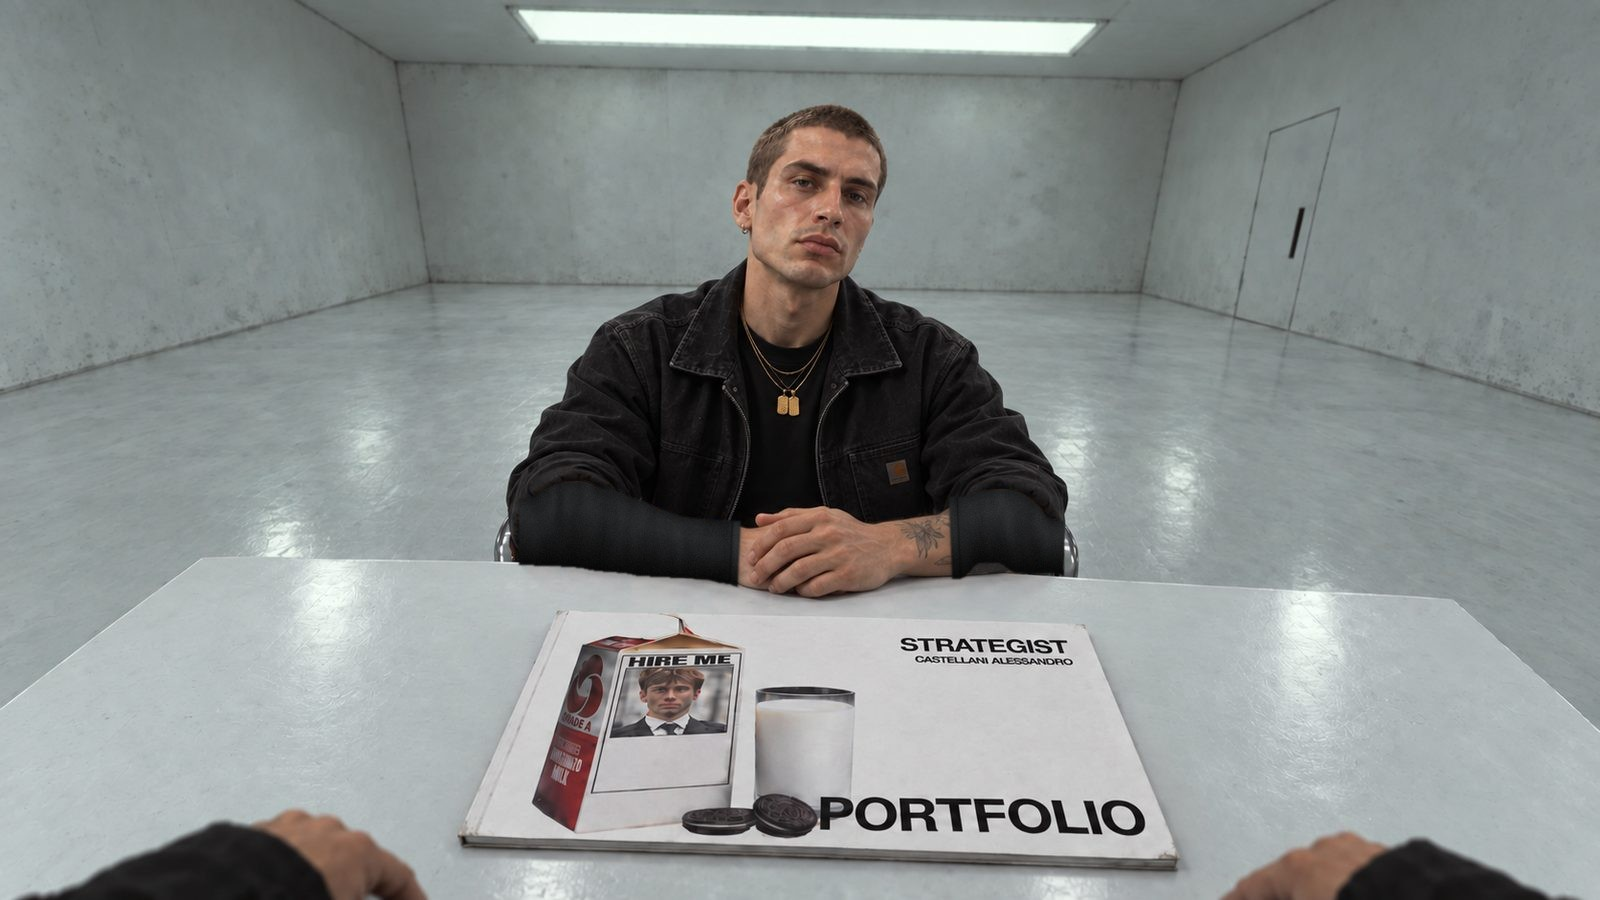
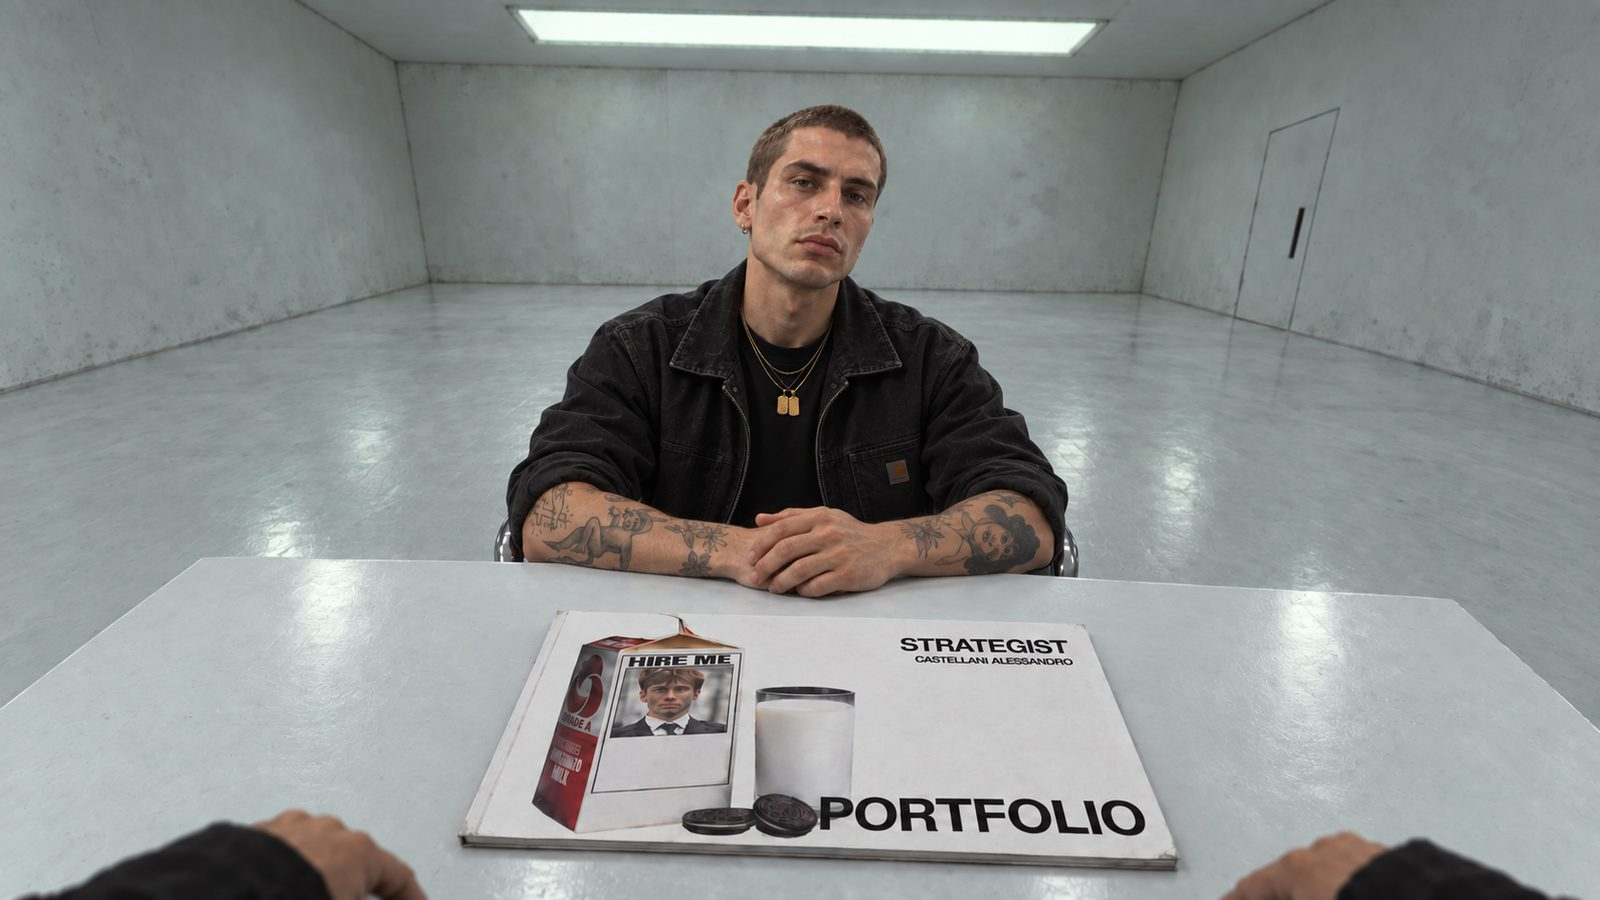
Back to the original frames; drop the broken sleeve overlay
Claude-Session: https://claude.ai/code/session_016uVSqxacXpJzEejh8DPR6u

Changed region(s): [[0.3125, 0.5289, 0.4688, 0.6533], [0.5938, 0.5289, 0.6875, 0.6533]]

diff --git a/index.html b/index.html
@@ -10,23 +10,23 @@
 <meta property="og:type" content="website">
 <meta property="og:title" content="Alessandro Castellani Portfolio">
 <meta property="og:description" content="Communication designer and strategist. Ask a question, then browse the full portfolio.">
-<meta property="og:image" content="https://011kaste.github.io/portfolio/assets/idle.jpg?v=2">
+<meta property="og:image" content="https://011kaste.github.io/portfolio/assets/idle.jpg?v=3">
 <meta property="og:image:width" content="1600">
 <meta property="og:image:height" content="900">
 <meta property="og:url" content="https://011kaste.github.io/portfolio/">
 <meta name="twitter:card" content="summary_large_image">
 <meta name="twitter:title" content="Alessandro Castellani Portfolio">
 <meta name="twitter:description" content="Communication designer and strategist. Ask a question, then browse the full portfolio.">
-<meta name="twitter:image" content="https://011kaste.github.io/portfolio/assets/idle.jpg?v=2">
+<meta name="twitter:image" content="https://011kaste.github.io/portfolio/assets/idle.jpg?v=3">
 
 <link rel="icon" href="assets/favicon.svg" type="image/svg+xml">
 <link rel="preconnect" href="https://fonts.googleapis.com">
 <link rel="preconnect" href="https://fonts.gstatic.com" crossorigin>
 <link rel="stylesheet" href="https://fonts.googleapis.com/css2?family=VT323&display=swap">
-<link rel="preload" as="image" href="assets/idle.jpg?v=2">
-<link rel="preload" as="image" href="assets/speak2.jpg?v=2">
-<link rel="preload" as="image" href="assets/speak3.jpg?v=2">
-<link rel="preload" as="image" href="assets/speak4.jpg?v=2">
+<link rel="preload" as="image" href="assets/idle.jpg?v=3">
+<link rel="preload" as="image" href="assets/speak2.jpg?v=3">
+<link rel="preload" as="image" href="assets/speak3.jpg?v=3">
+<link rel="preload" as="image" href="assets/speak4.jpg?v=3">
 
 <style>
 /* Base rules the page relies on */
@@ -63,12 +63,11 @@ button:focus-visible,a:focus-visible{outline:2px solid #fff;outline-offset:3px;b
 #sceneWrap{position:absolute;inset:0;overflow:hidden;background:var(--room)}
 .sceneLayer{position:absolute;inset:-1.5%;background-position:center;background-size:cover;background-repeat:no-repeat;opacity:0;transition:opacity .13s linear,transform .18s ease-out;will-change:opacity,transform;transform:scale(1.018)}
 .sceneLayer.visible{opacity:1}
[1 lines of base64/hex data omitted]
-#sceneIdle,#scene1{background-image:url("assets/idle.jpg?v=2")}
+#sceneIdle,#scene1{background-image:url("assets/idle.jpg?v=3")}
 #sceneIdle{opacity:1}
-#scene2{background-image:url("assets/speak2.jpg?v=2")}
-#scene3{background-image:url("assets/speak3.jpg?v=2")}
-#scene4{background-image:url("assets/speak4.jpg?v=2")}
+#scene2{background-image:url("assets/speak2.jpg?v=3")}
+#scene3{background-image:url("assets/speak3.jpg?v=3")}
+#scene4{background-image:url("assets/speak4.jpg?v=3")}
 .vignette,.grain,.overlay{position:absolute;inset:0;pointer-events:none}
 .overlay{background:linear-gradient(180deg,rgba(255,255,255,.035),rgba(0,0,0,.055));z-index:10}
 .vignette{background:radial-gradient(circle at 50% 45%,transparent 42%,rgba(0,0,0,.13) 100%);z-index:11}
@@ -223,7 +222,6 @@ a.pill{text-decoration:none;display:inline-block}
     <div class="sceneLayer" id="scene2"></div>
     <div class="sceneLayer" id="scene3"></div>
     <div class="sceneLayer" id="scene4"></div>
-    <div class="sleevesLayer" id="sleevesLayer" aria-hidden="true"></div>
   </div>
   <div class="stageWrap" id="stageWrap">
     <div class="stage" id="stage">
@@ -380,7 +378,7 @@ const reduceMotion=window.matchMedia("(prefers-reduced-motion: reduce)");
 const narrow=window.matchMedia("(max-width: 900px)");
 
 /* ---------- Talking scene ---------- */
-const layers=[...document.querySelectorAll(".sceneLayer")],idle=$("sceneIdle"),frames=[$("scene1"),$("scene2"),$("scene3"),$("scene4")],sleeves=$("sleevesLayer");
+const layers=[...document.querySelectorAll(".sceneLayer")],idle=$("sceneIdle"),frames=[$("scene1"),$("scene2"),$("scene3"),$("scene4")];
 let typing=null,speakInt=null,speakStop=null,fi=0;
 function showOnly(el){layers.forEach(l=>l.classList.remove("visible"));el.classList.add("visible")}
 function stopSpeaking(){clearInterval(speakInt);clearTimeout(speakStop);showOnly(idle)}
@@ -398,8 +396,8 @@ interview.forEach(item=>{const b=document.createElement("button");b.type="button
 talkBtn.onclick=()=>dock.classList.contains("show")?closeDock():openDock();
 $("dockClose").onclick=closeDock;
 
-exp.addEventListener("mousemove",e=>{if(reduceMotion.matches)return;const r=exp.getBoundingClientRect(),x=(e.clientX-r.width/2)/r.width,y=(e.clientY-r.height/2)/r.height;const t=`translate3d(${(x*-14).toFixed(1)}px,${(y*-9).toFixed(1)}px,0) scale(1.018)`;layers.forEach(l=>l.style.transform=t);sleeves.style.transform=t;stageWrap.style.transform=t});
-exp.addEventListener("mouseleave",()=>{layers.forEach(l=>l.style.transform="scale(1.018)");sleeves.style.transform="scale(1.018)";stageWrap.style.transform="scale(1.018)"});
+exp.addEventListener("mousemove",e=>{if(reduceMotion.matches)return;const r=exp.getBoundingClientRect(),x=(e.clientX-r.width/2)/r.width,y=(e.clientY-r.height/2)/r.height;const t=`translate3d(${(x*-14).toFixed(1)}px,${(y*-9).toFixed(1)}px,0) scale(1.018)`;layers.forEach(l=>l.style.transform=t);stageWrap.style.transform=t});
+exp.addEventListener("mouseleave",()=>{layers.forEach(l=>l.style.transform="scale(1.018)");stageWrap.style.transform="scale(1.018)"});
 
 /* ---------- Book ---------- */
 let built=false,lastTrigger=null,currentIdx=0;
